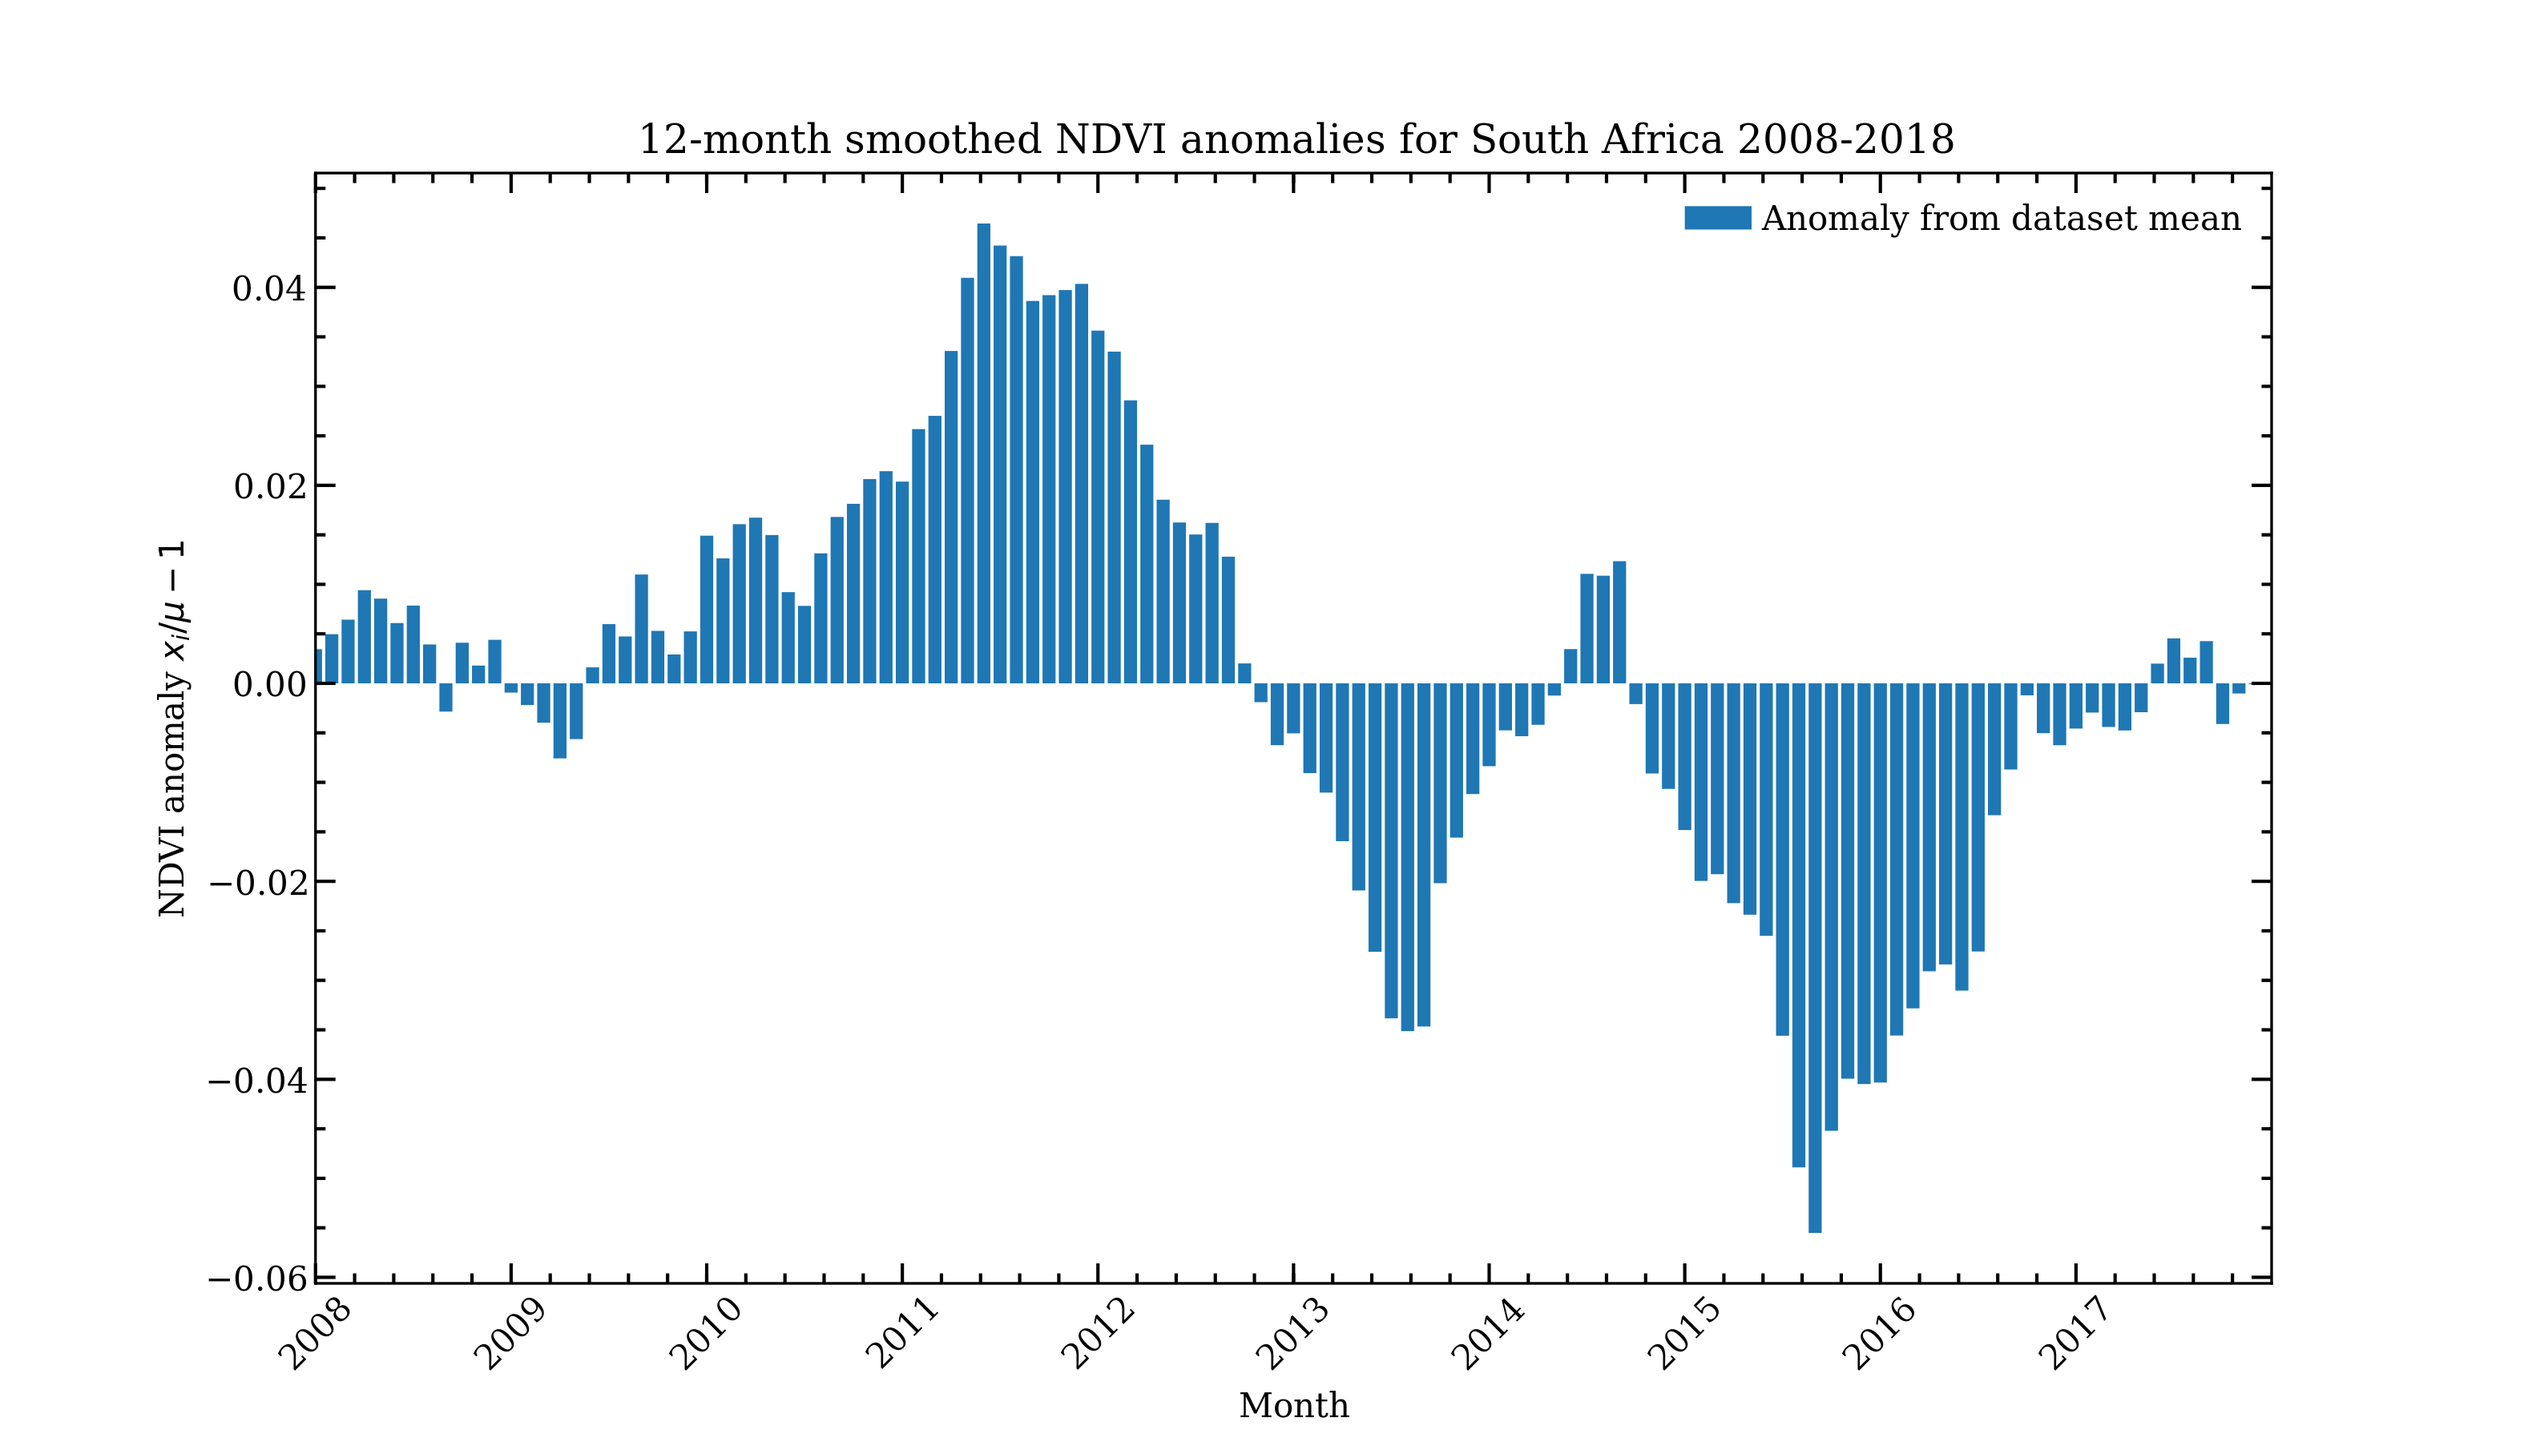
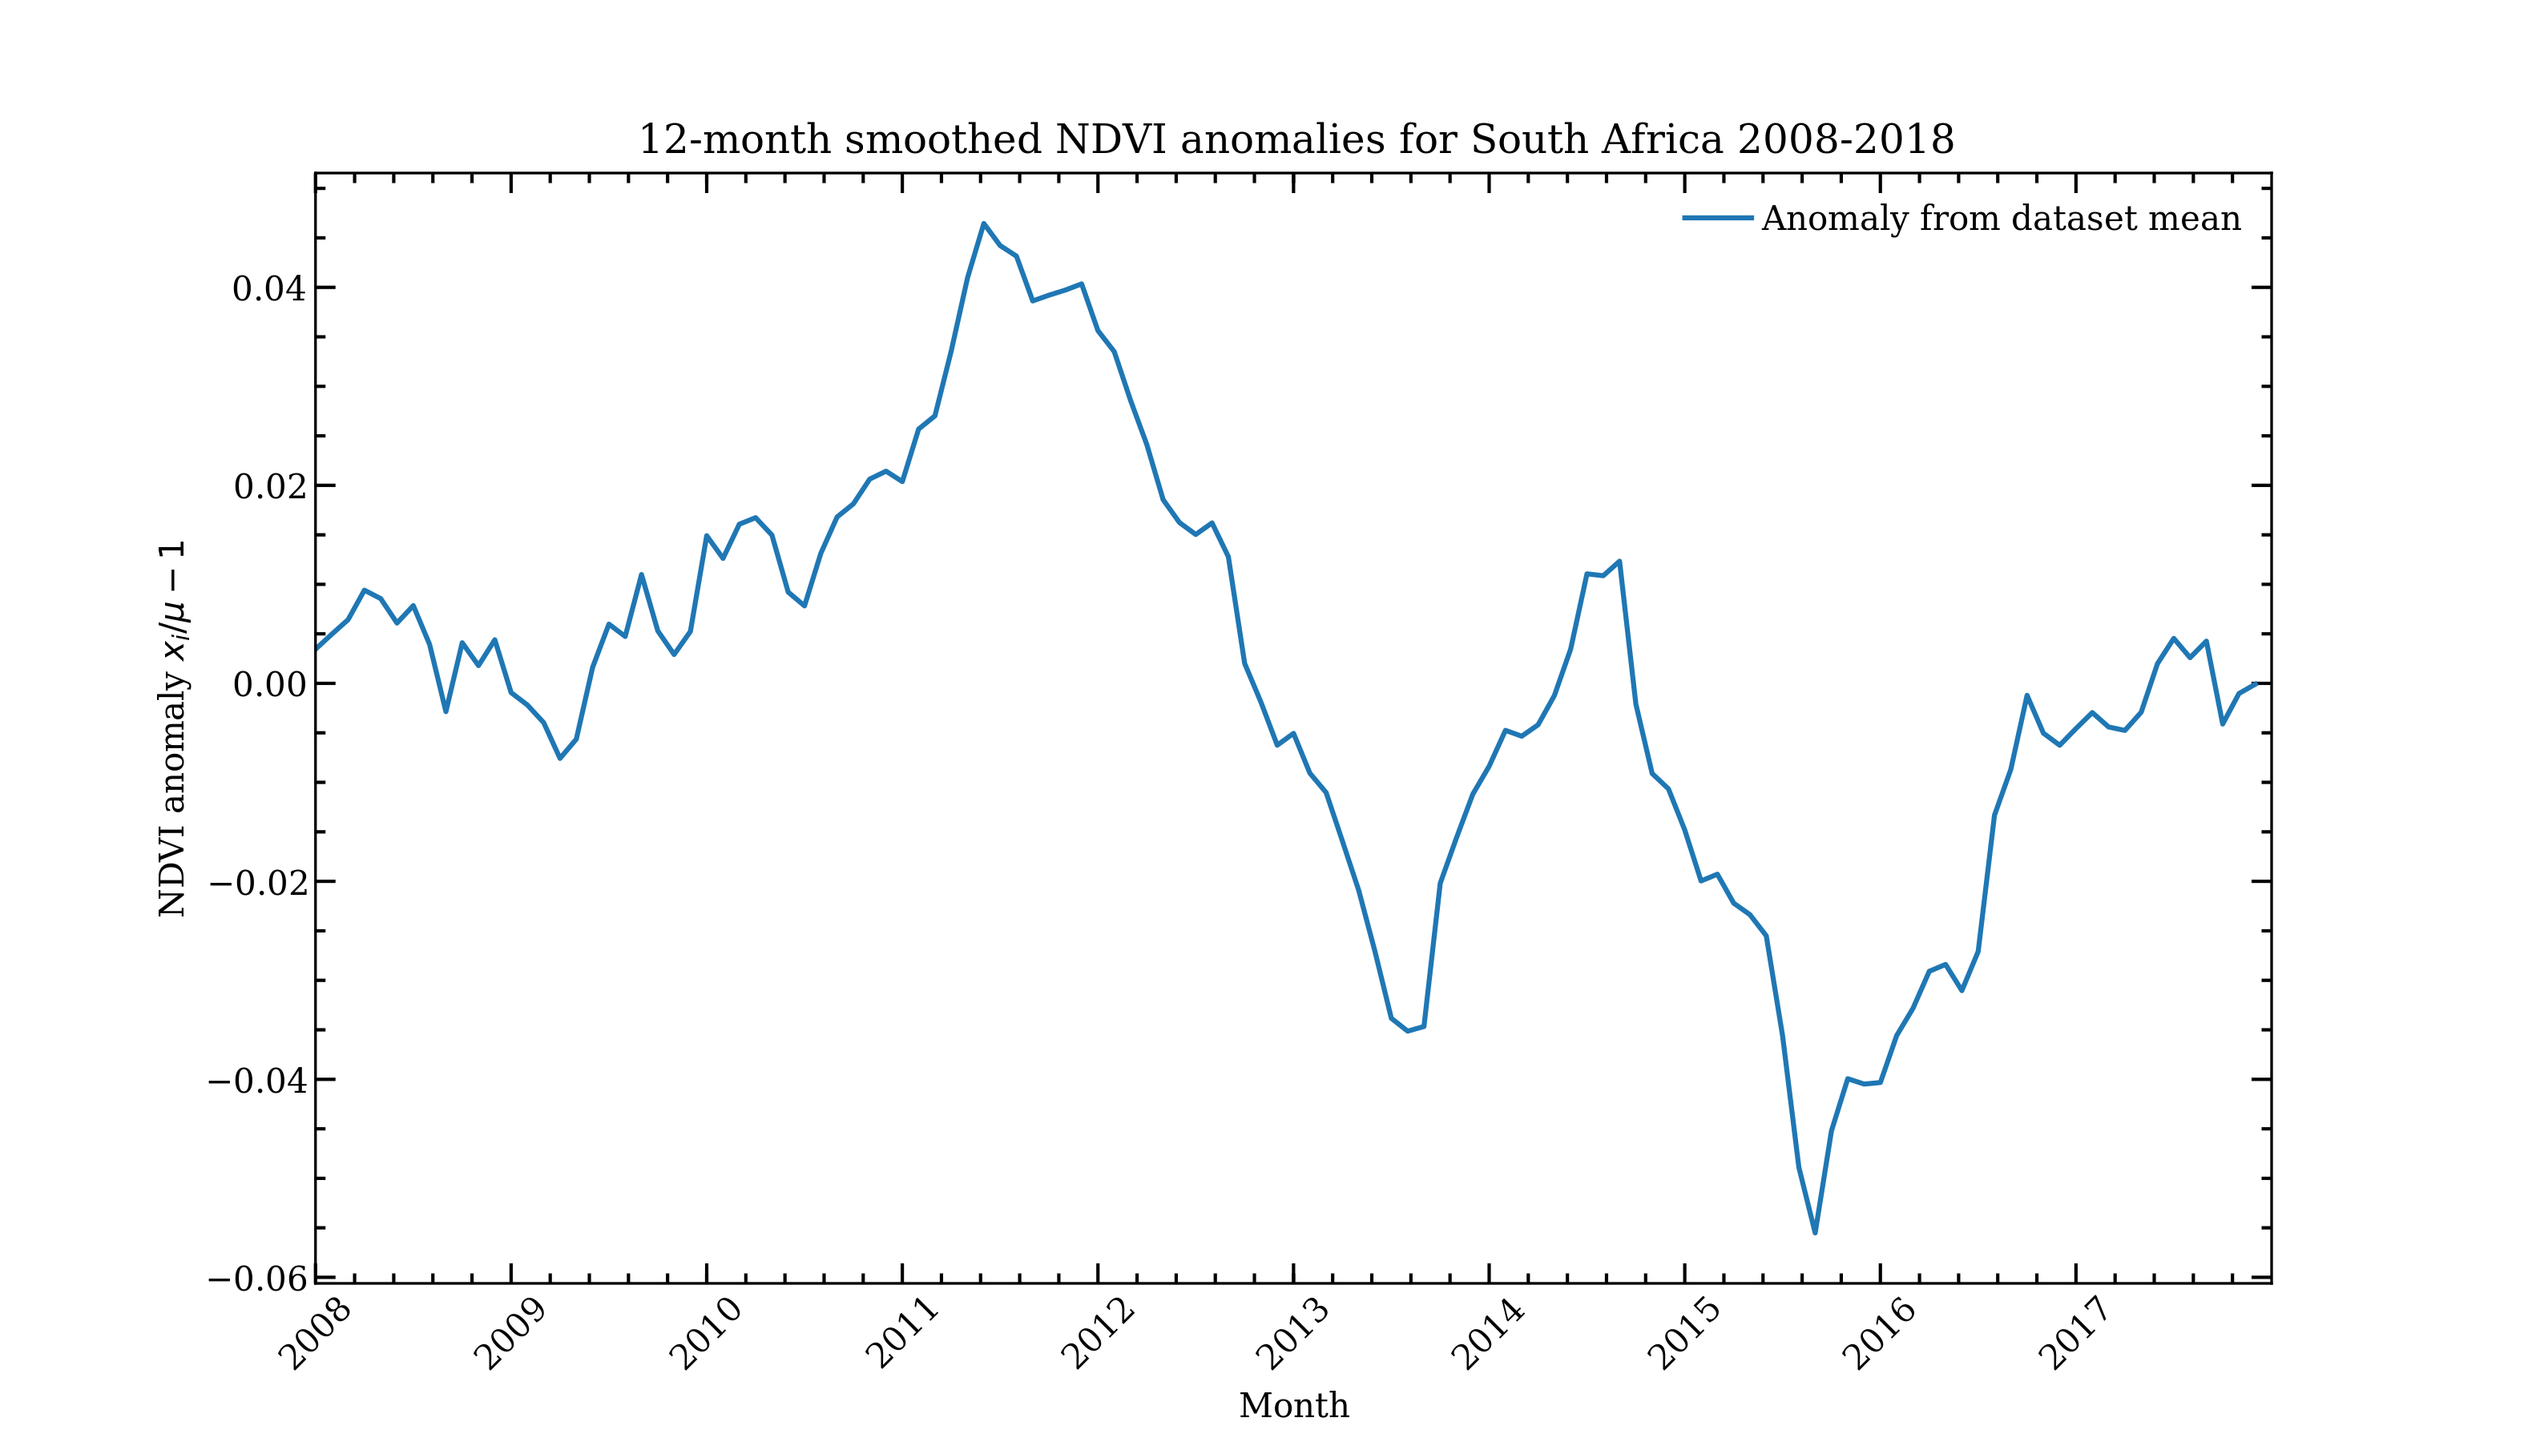
Use line plot rather than bar plot for NDVI

Changed region(s): [[0.1244, 0.1556, 0.9022, 0.84], [0.6533, 0.1244, 0.6844, 0.1556]]

diff --git a/code/ndvi_analysis.py b/code/ndvi_analysis.py
@@ -90,7 +90,8 @@ def plot_ndvi_monthly_and_means(region):
     monthlys = np.dstack([np.mean(np.load(fname)[mask]) for fname in fnames]).ravel()
 
     plt.figure(figsize=(10.5,6))
-    plt.bar(np.arange(len(monthlys)), monthlys, label='Monthly NDVI')
+    # plt.bar(np.arange(len(monthlys)), monthlys, label='Monthly NDVI')
+    plt.plot(monthlys, label='Monthly NDVI')
     plt.plot(np.tile(avgs, 10), c='r', label='Average monthly NDVI for whole dataset')
     plt.ylim([np.min(monthlys)-0.05*np.min(monthlys), np.max(monthlys) + 0.05*np.max(monthlys)])
     plt.xlim(0, len(monthlys))
@@ -158,7 +159,8 @@ def plot_ndvi_anomalies(region, smooth=6):
     anom_mean_smoothed, anom_mean = ndvi_anomalies(region, smooth=smooth)
 
     plt.figure(figsize=(10.5,6))
-    plt.bar(np.arange(len(anom_mean_smoothed)), anom_mean_smoothed, label='Anomaly from dataset mean')
+    # plt.bar(np.arange(len(anom_mean_smoothed)), anom_mean_smoothed, label='Anomaly from dataset mean')
+    plt.plot(anom_mean_smoothed, label='Anomaly from dataset mean')
     # plt.bar(np.arange(len(anom_fit_smoothed)), anom_fit_smoothed, label='Difference from fitted sine wave')
     # plt.ylim([0.2, np.max(monthlys) + 0.005])
     plt.xlim(0, len(anom_mean_smoothed))
